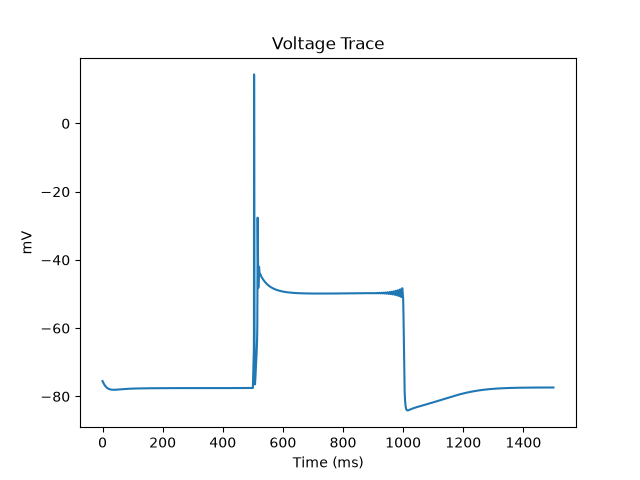
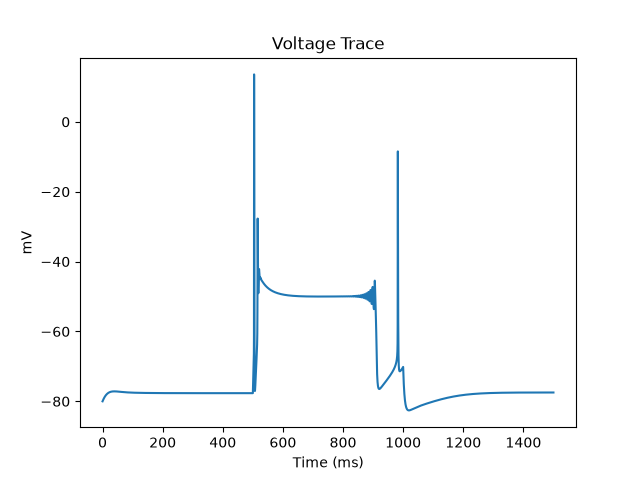
All functions appear to be running

diff --git a/main.py b/main.py
@@ -19,37 +19,88 @@ Additionally, run can take 'PermutationTesting' to run over a changing parameter
 '''
 
 if __name__ == '__main__':
-    # Nowacki_1 = ExperimentManager(1, "Nowacki", "./Runs/Nowacki/100uA/")
+
+    # Nowacki_1 = ExperimentManager(1, "Nowacki", "./Runs/Nowacki/Step/100uA/")
     # Nowacki_1.run("Step")
-    # Nowacki_2 = ExperimentManager(2, "Nowacki", "./Runs/Nowacki/200uA/")
+    # Nowacki_2 = ExperimentManager(2, "Nowacki", "./Runs/Nowacki/Step/200uA/")
     # Nowacki_2.run("Step")
-    # Nowacki_3 = ExperimentManager(3, "Nowacki", "./Runs/Nowacki/300uA/")
+    # Nowacki_3 = ExperimentManager(3, "Nowacki", "./Runs/Nowacki/Step/300uA/")
     # Nowacki_3.run("Step")
-
-    # Saghafi_1 = ExperimentManager(1, "Saghafi", "./Runs/Saghafi/100uA/")
+    # Nowacki_1 = ExperimentManager(1, "Nowacki", "./Runs/Nowacki/Constant/100uA/")
+    # Nowacki_1.run("Constant")
+    # Nowacki_2 = ExperimentManager(2, "Nowacki", "./Runs/Nowacki/Constant/200uA/")
+    # Nowacki_2.run("Constant")
+    # Nowacki_3 = ExperimentManager(3, "Nowacki", "./Runs/Nowacki/Constant/300uA/")
+    # Nowacki_3.run("Constant")
+    # Nowacki_1 = ExperimentManager(1, "Nowacki", "./Runs/Nowacki/Chirp/100uA/")
+    # Nowacki_1.run("Chirp")
+    # Nowacki_2 = ExperimentManager(2, "Nowacki", "./Runs/Nowacki/Chirp/200uA/")
+    # Nowacki_2.run("Chirp")
+    # Nowacki_3 = ExperimentManager(3, "Nowacki", "./Runs/Nowacki/Chirp/300uA/")
+    # Nowacki_3.run("Chirp")
+    # Saghafi_1 = ExperimentManager(1, "Saghafi", "./Runs/Step/Saghafi/100uA/")
     # Saghafi_1.run("Step")
-    # Saghafi_2 = ExperimentManager(2, "Saghafi", "./Runs/Saghafi/200uA/")
+    # Saghafi_2 = ExperimentManager(2, "Saghafi", "./Runs/Step/Saghafi/200uA/")
     # Saghafi_2.run("Step")
-    # Saghafi_3 = ExperimentManager(3, "Saghafi", "./Runs/Saghafi/300uA/")
+    # Saghafi_3 = ExperimentManager(3, "Saghafi", "./Runs/Step/Saghafi/300uA/")
     # Saghafi_3.run("Step")
-
-    # Saghafi_DE_1 = ExperimentManager(1, "Saghafi_DE", "./Runs/Saghafi_DE/100uA/")
+    #
+    # Saghafi_DE_1 = ExperimentManager(1, "Saghafi_DE", "./Runs/Step/Saghafi_DE/100uA/")
     # Saghafi_DE_1.run("Step")
-    # Saghafi_DE_2 = ExperimentManager(2, "Saghafi_DE", "./Runs/Saghafi_DE/200uA/")
+    # Saghafi_DE_2 = ExperimentManager(2, "Saghafi_DE", "./Runs/Step/Saghafi_DE/200uA/")
     # Saghafi_DE_2.run("Step")
-    Saghafi_DE_3 = ExperimentManager(3, "Saghafi_DE", "./Runs/Saghafi_DE/300uA/")
-    Saghafi_DE_3.run("Step")
-
-    # Calcium_1 = ExperimentManager(1, "Calcium", "./Runs/Calcium/100uA/")
+    # Saghafi_DE_3 = ExperimentManager(3, "Saghafi_DE", "./Runs/Step/Saghafi_DE/300uA/")
+    # Saghafi_DE_3.run("Step")
+    # Saghafi_DE_1 = ExperimentManager(1, "Saghafi_DE", "./Runs/Constant/Saghafi_DE/100uA/")
+    # Saghafi_DE_1.run("Constant")
+    # Saghafi_DE_2 = ExperimentManager(2, "Saghafi_DE", "./Runs/Constant/Saghafi_DE/200uA/")
+    # Saghafi_DE_2.run("Constant")
+    # Saghafi_DE_3 = ExperimentManager(3, "Saghafi_DE", "./Runs/Constant/Saghafi_DE/300uA/")
+    # Saghafi_DE_3.run("Constant")
+    # Saghafi_DE_1 = ExperimentManager(1, "Saghafi_DE", "./Runs/Chirp/Saghafi_DE/100uA/")
+    # Saghafi_DE_1.run("Chirp")
+    # Saghafi_DE_2 = ExperimentManager(2, "Saghafi_DE", "./Runs/Chirp/Saghafi_DE/200uA/")
+    # Saghafi_DE_2.run("Chirp")
+    # Saghafi_DE_3 = ExperimentManager(3, "Saghafi_DE", "./Runs/Chirp/Saghafi_DE/300uA/")
+    # Saghafi_DE_3.run("Chirp")
+    #
+    # Calcium_1 = ExperimentManager(1, "Calcium", "./Runs/Step/Calcium/100uA/")
     # Calcium_1.run("Step")
-    # Calcium_2 = ExperimentManager(2, "Calcium", "./Runs/Calcium/200uA/")
+    # Calcium_2 = ExperimentManager(2, "Calcium", "./Runs/Step/Calcium/200uA/")
     # Calcium_2.run("Step")
-    # Calcium_3 = ExperimentManager(2, "Calcium", "./Runs/Calcium/300uA/")
+    # Calcium_3 = ExperimentManager(2, "Calcium", "./Runs/Step/Calcium/300uA/")
     # Calcium_3.run("Step")
-
-    # Saghafi_M_1 = ExperimentManager(1, "Saghafi_M", "./Runs/Saghafi_M/100uA/")
+    # Calcium_1 = ExperimentManager(1, "Calcium", "./Runs/Constant/Calcium/100uA/")
+    # Calcium_1.run("Constant")
+    # Calcium_2 = ExperimentManager(2, "Calcium", "./Runs/Constant/Calcium/200uA/")
+    # Calcium_2.run("Constant")
+    # Calcium_3 = ExperimentManager(2, "Calcium", "./Runs/Constant/Calcium/300uA/")
+    # Calcium_3.run("Constant")
+    # Calcium_1 = ExperimentManager(1, "Calcium", "./Runs/Chirp/Calcium/100uA/")
+    # Calcium_1.run("Chirp")
+    # Calcium_2 = ExperimentManager(2, "Calcium", "./Runs/Chirp/Calcium/200uA/")
+    # Calcium_2.run("Chirp")
+    # Calcium_3 = ExperimentManager(2, "Calcium", "./Runs/Chirp/Calcium/300uA/")
+    # Calcium_3.run("Chirp")
+    #
+    # Saghafi_M_1 = ExperimentManager(1, "Saghafi_M", "./Runs/Step/Saghafi_M/100uA/")
     # Saghafi_M_1.run("Step")
-    # Saghafi_M_2 = ExperimentManager(2, "Saghafi_M", "./Runs/Saghafi_M/200uA/")
+    # Saghafi_M_2 = ExperimentManager(2, "Saghafi_M", "./Runs/Step/Saghafi_M/200uA/")
     # Saghafi_M_2.run("Step")
-    # Saghafi_M_3 = ExperimentManager(3, "Saghafi_M", "./Runs/Saghafi_M/300uA/")
+    # Saghafi_M_3 = ExperimentManager(3, "Saghafi_M", "./Runs/Step/Saghafi_M/300uA/")
     # Saghafi_M_3.run("Step")
+    # Saghafi_M_1 = ExperimentManager(1, "Saghafi_M", "./Runs/Constant/Saghafi_M/100uA/")
+    # Saghafi_M_1.run("Constant")
+    # Saghafi_M_2 = ExperimentManager(2, "Saghafi_M", "./Runs/Constant/Saghafi_M/200uA/")
+    # Saghafi_M_2.run("Constant")
+    # Saghafi_M_3 = ExperimentManager(3, "Saghafi_M", "./Runs/Constant/Saghafi_M/300uA/")
+    # Saghafi_M_3.run("Constant")
+    # Saghafi_M_1 = ExperimentManager(1, "Saghafi_M", "./Runs/Chirp/Saghafi_M/100uA/")
+    # Saghafi_M_1.run("Chirp")
+    # Saghafi_M_2 = ExperimentManager(2, "Saghafi_M", "./Runs/Chirp/Saghafi_M/200uA/")
+    # Saghafi_M_2.run("Chirp")
+    # Saghafi_M_3 = ExperimentManager(3, "Saghafi_M", "./Runs/Chirp/Saghafi_M/300uA/")
+    # Saghafi_M_3.run("Chirp")
+
+    Calcium_1 = ExperimentManager(1, "Calcium", "./Runs/PermutationTest/")
+    Calcium_1.run("PermutationTesting2")

diff --git a/HodgkinHuxley.py b/HodgkinHuxley.py
@@ -191,7 +191,7 @@ class HogdkinHuxley:
                 self.n_H0 = boltzmann(self.V0, self.Vn_H, self.kn_H)
             case "Saghafi_DE":
                 # Initial membrane voltage
-                self.V0 = -75.5
+                self.V0 = -80
                 # Initialize conductance
                 self.g_NaT = 7.2603
                 self.g_NaP = 0.0423
@@ -475,7 +475,7 @@ class HogdkinHuxley:
             self.n_H0 = z[9, -1]
             self.V0 = z[10, -1]
             self.Ca_c0 = z[11, -1]
-            print(self.V0)
+            # print(self.V0)
         return z
     #Plot voltage over time
     def plotVoltageTimeSeries(self, saveLocation, saveNumber, save = True, show = True, additionalText="", i="NOTHING"):
@@ -563,23 +563,26 @@ class HogdkinHuxley:
     def plotAdaption(self, saveLocation, saveNumber, extraText="", i="NOTHING", save=True):
         #Get the spikes
         peak_index = find_peaks(self.t_V, height=0)[0]
-        interSpikeInterval = np.zeros(len(peak_index) - 1)
-        #Calculate inter-spike intervals
-        for firstIndex in range(len(peak_index) - 1):
-            secondIndex = firstIndex + 1
-            interSpikeInterval[firstIndex] = self.final_t_eval[peak_index[secondIndex]] - self.final_t_eval[peak_index[firstIndex]]
-        list = self.final_t_eval[peak_index]
-        #Plot frequency
-        if i == "NOTHING":
-            plt.plot(list[:-1], 1 / interSpikeInterval)
+        if len(peak_index) > 1:
+            interSpikeInterval = np.zeros(len(peak_index) - 1)
+            #Calculate inter-spike intervals
+            for firstIndex in range(len(peak_index) - 1):
+                secondIndex = firstIndex + 1
+                interSpikeInterval[firstIndex] = self.final_t_eval[peak_index[secondIndex]] - self.final_t_eval[peak_index[firstIndex]]
+            list = self.final_t_eval[peak_index]
+            #Plot frequency
+            if i == "NOTHING":
+                plt.plot(list[:-1], 1 / interSpikeInterval)
+            else:
+                plt.plot(list[:-1], 1/interSpikeInterval, label=i)
+            plt.xlabel("t (ms)")
+            plt.ylabel("Frequency")
+            plt.title("Spike-frequency adaptation " + extraText)
+            if save:
+                plt.savefig(saveLocation + str(saveNumber) + ".8.Adaptation" + ".png")
+                plt.show()
         else:
-            plt.plot(list[:-1], 1/interSpikeInterval, label=i)
-        plt.xlabel("t (ms)")
-        plt.ylabel("Frequency")
-        plt.title("Spike-frequency adaptation " + extraText)
-        if save:
-            plt.savefig(saveLocation + str(saveNumber) + ".8.Adaptation" + ".png")
-            plt.show()
+            print("Not enough spikes to plot spike-frequency adaptation")
 
     # def plotGatingPerVoltageTrace(self):
     #     V_array = np.linspace(-100, 40, 1000)

diff --git a/ExperimentManager.py b/ExperimentManager.py
@@ -8,7 +8,16 @@ from HodgkinHuxley import HogdkinHuxley
 from ParallelFunctions import permute
 from utils import residuals, printText
 
-
+'''
+This class controls each available class of experiment which can be run with the model.
+It contains the following functions:
+"Restart" replaces the model with a fresh one.
+Constant injects a constant current into the model.
+Step injects a step current into the model.
+Chirp injects a ZAP or CHIRP current into the model.
+PermutationTesting runs over an array of values to plot adaptation.
+PermutationTesting2 runs the model over two arrays of values in parallel.
+'''
 class ExperimentManager:
     #Initialize class
     def __init__(self, peakCurrent, modelType, saveLocation = "./Out/"):
@@ -78,8 +87,8 @@ class ExperimentManager:
             case "Step":
                 print("Running Step Experiment")
                 # Run to steady state
-                # current = Steady(0, 30000)
-                # self.neuron.runModel(self.I_hold, current, True, self.useSK, self.useH, False, True, False)
+                current = Steady(0, 30000)
+                self.neuron.runModel(self.I_hold, current, True, self.useSK, self.useH, False, True, False)
                 # Run no current
                 current = Steady(0, 500)
                 self.neuron.runModel(self.I_hold, current, True, self.useSK, self.useH, True, True, False)
@@ -142,7 +151,7 @@ class ExperimentManager:
                 #Create array of values to search across
                 g_SK_Array = np.array(np.linspace(0, 10000, iterations))
                 k_SK_Array = np.array(np.linspace(0, 10000, iterations))
-                valueArray = np.zeros([iterations ** 2, 5])
+                valueArray = np.zeros([iterations ** 2, 6])
                 #Pass model type
                 modelType = 0
                 match self.modelType:

diff --git a/ParallelFunctions.py b/ParallelFunctions.py
@@ -1,3 +1,5 @@
+import os
+
 from Electrode import Steady
 from HodgkinHuxley import HogdkinHuxley
 from utils import printText
@@ -13,6 +15,9 @@ Currently set to permute over g_SK and k_SK, can be modified.
 '''
 def permute(starting_I_hold, peakCurrent, plotNumber, firstValue, secondValue, modelType2):
     saveLocation = "./CalciumParameterSearch/"
+    # Make output folder if necessary
+    if not os.path.exists(saveLocation):
+        os.makedirs(saveLocation)
     # Get model type
     modelType = "Nowacki"
     match modelType2:
